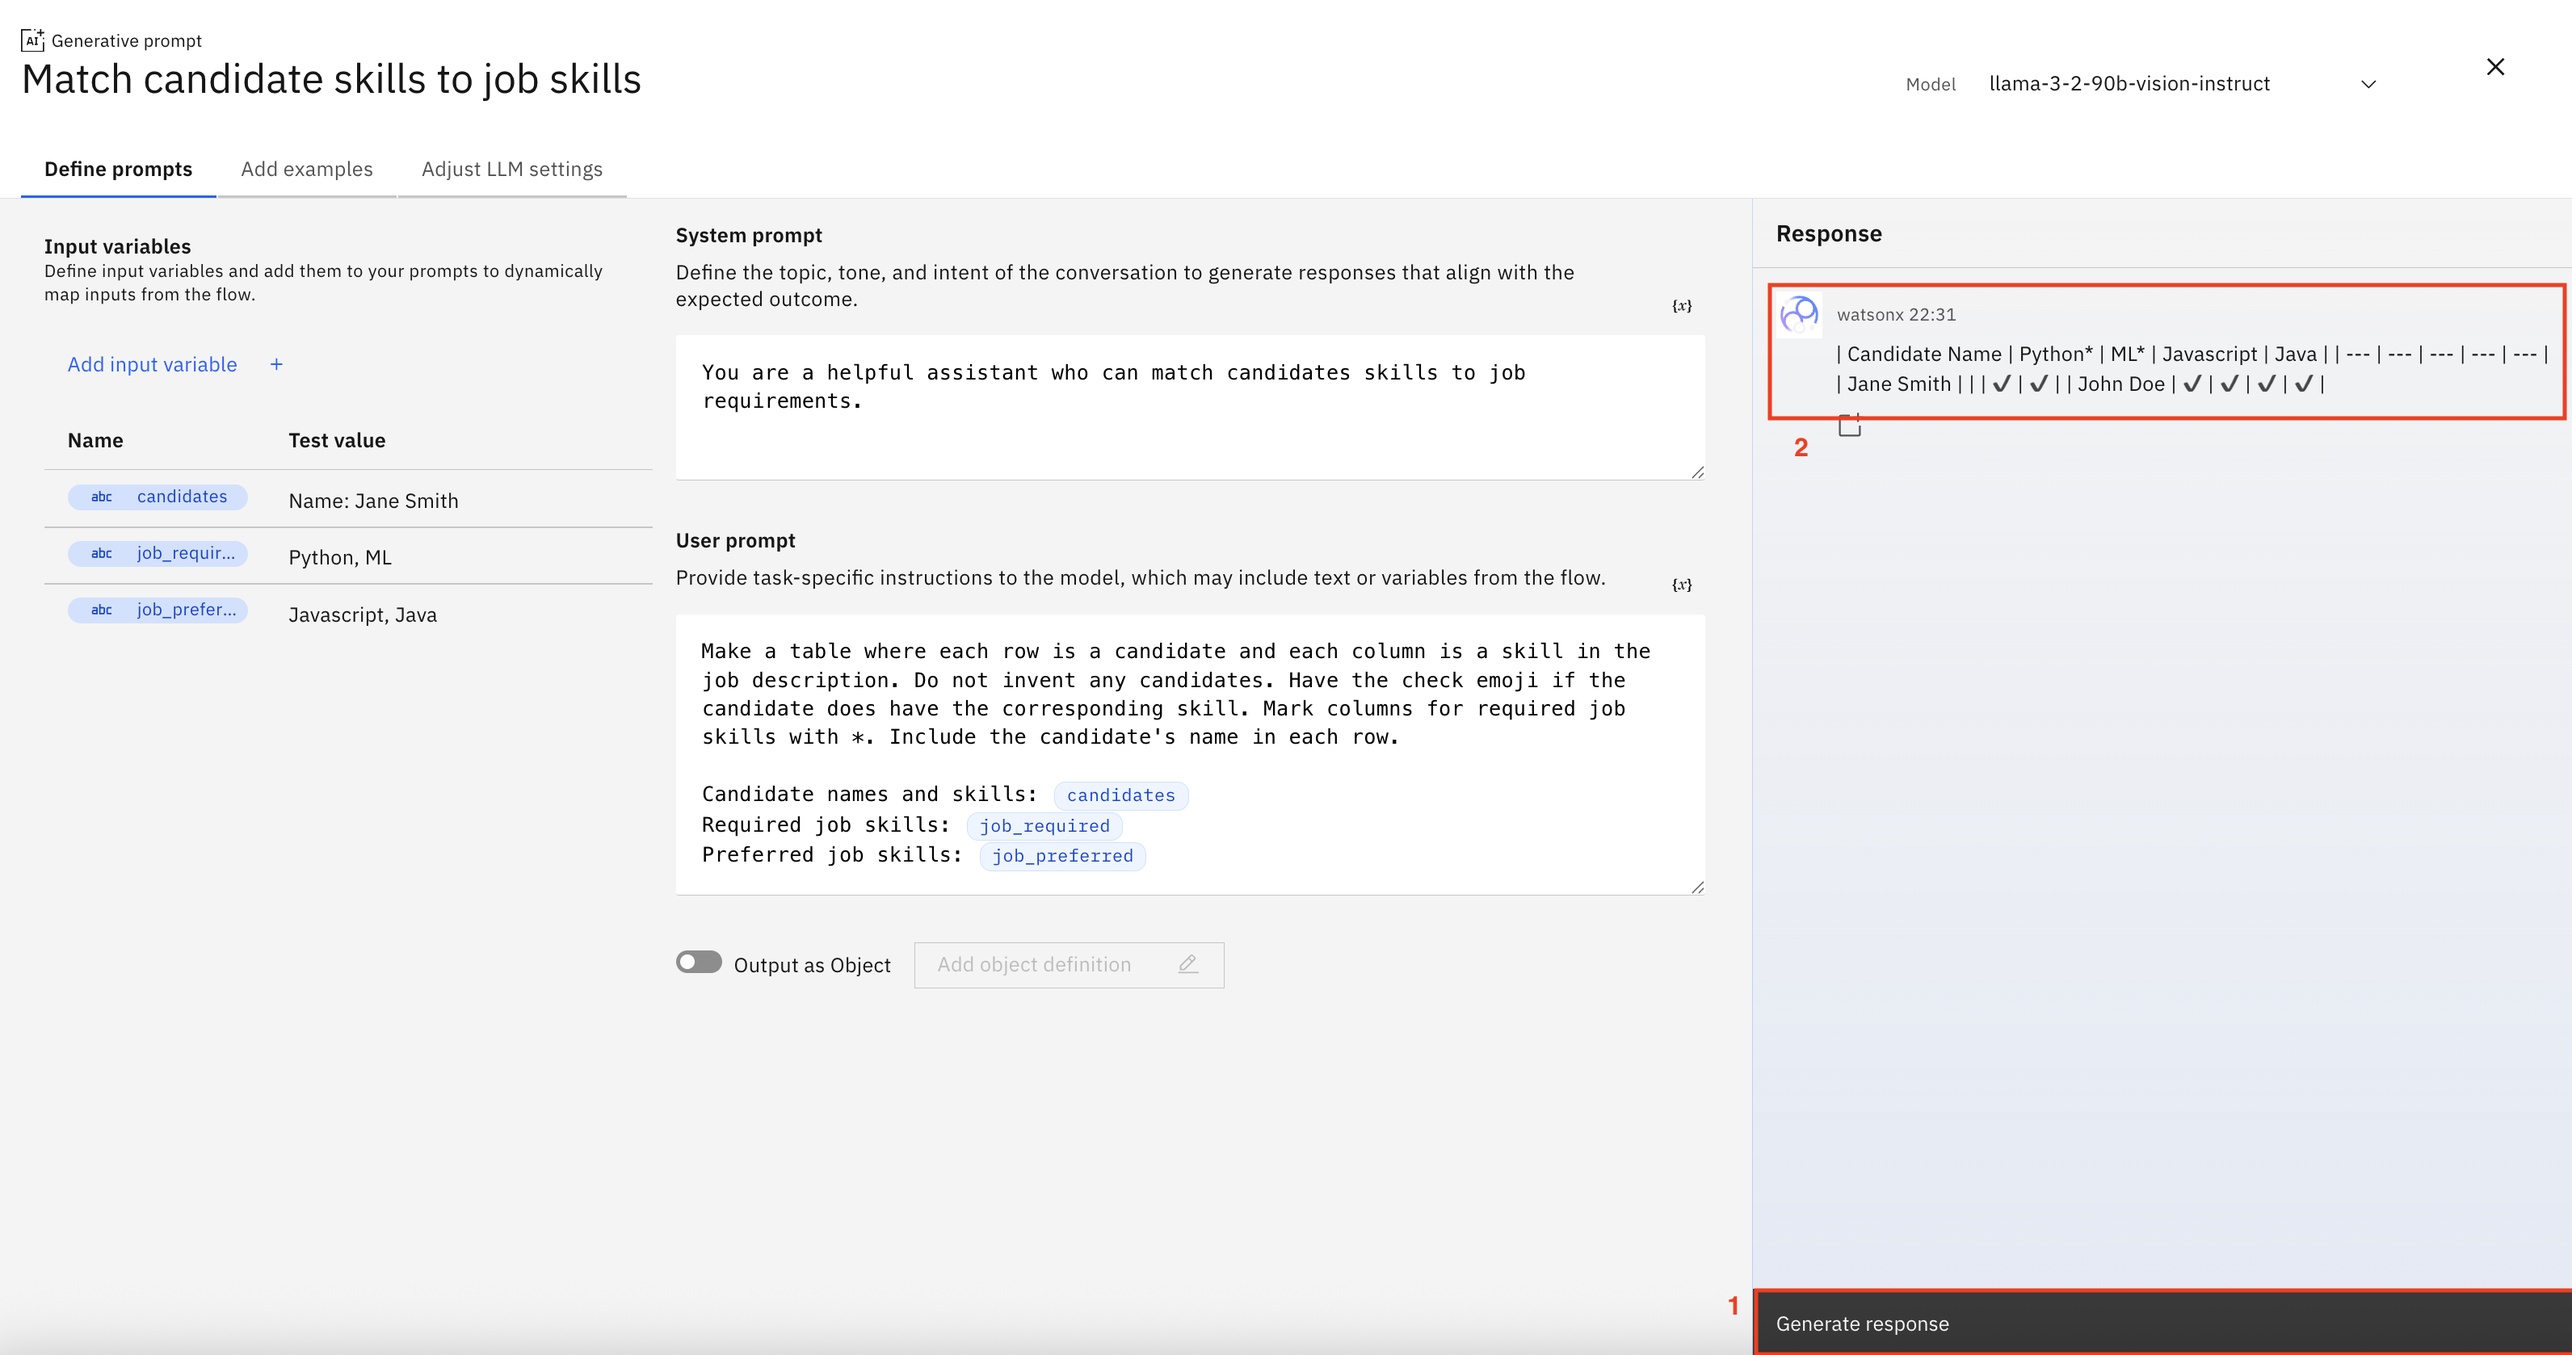
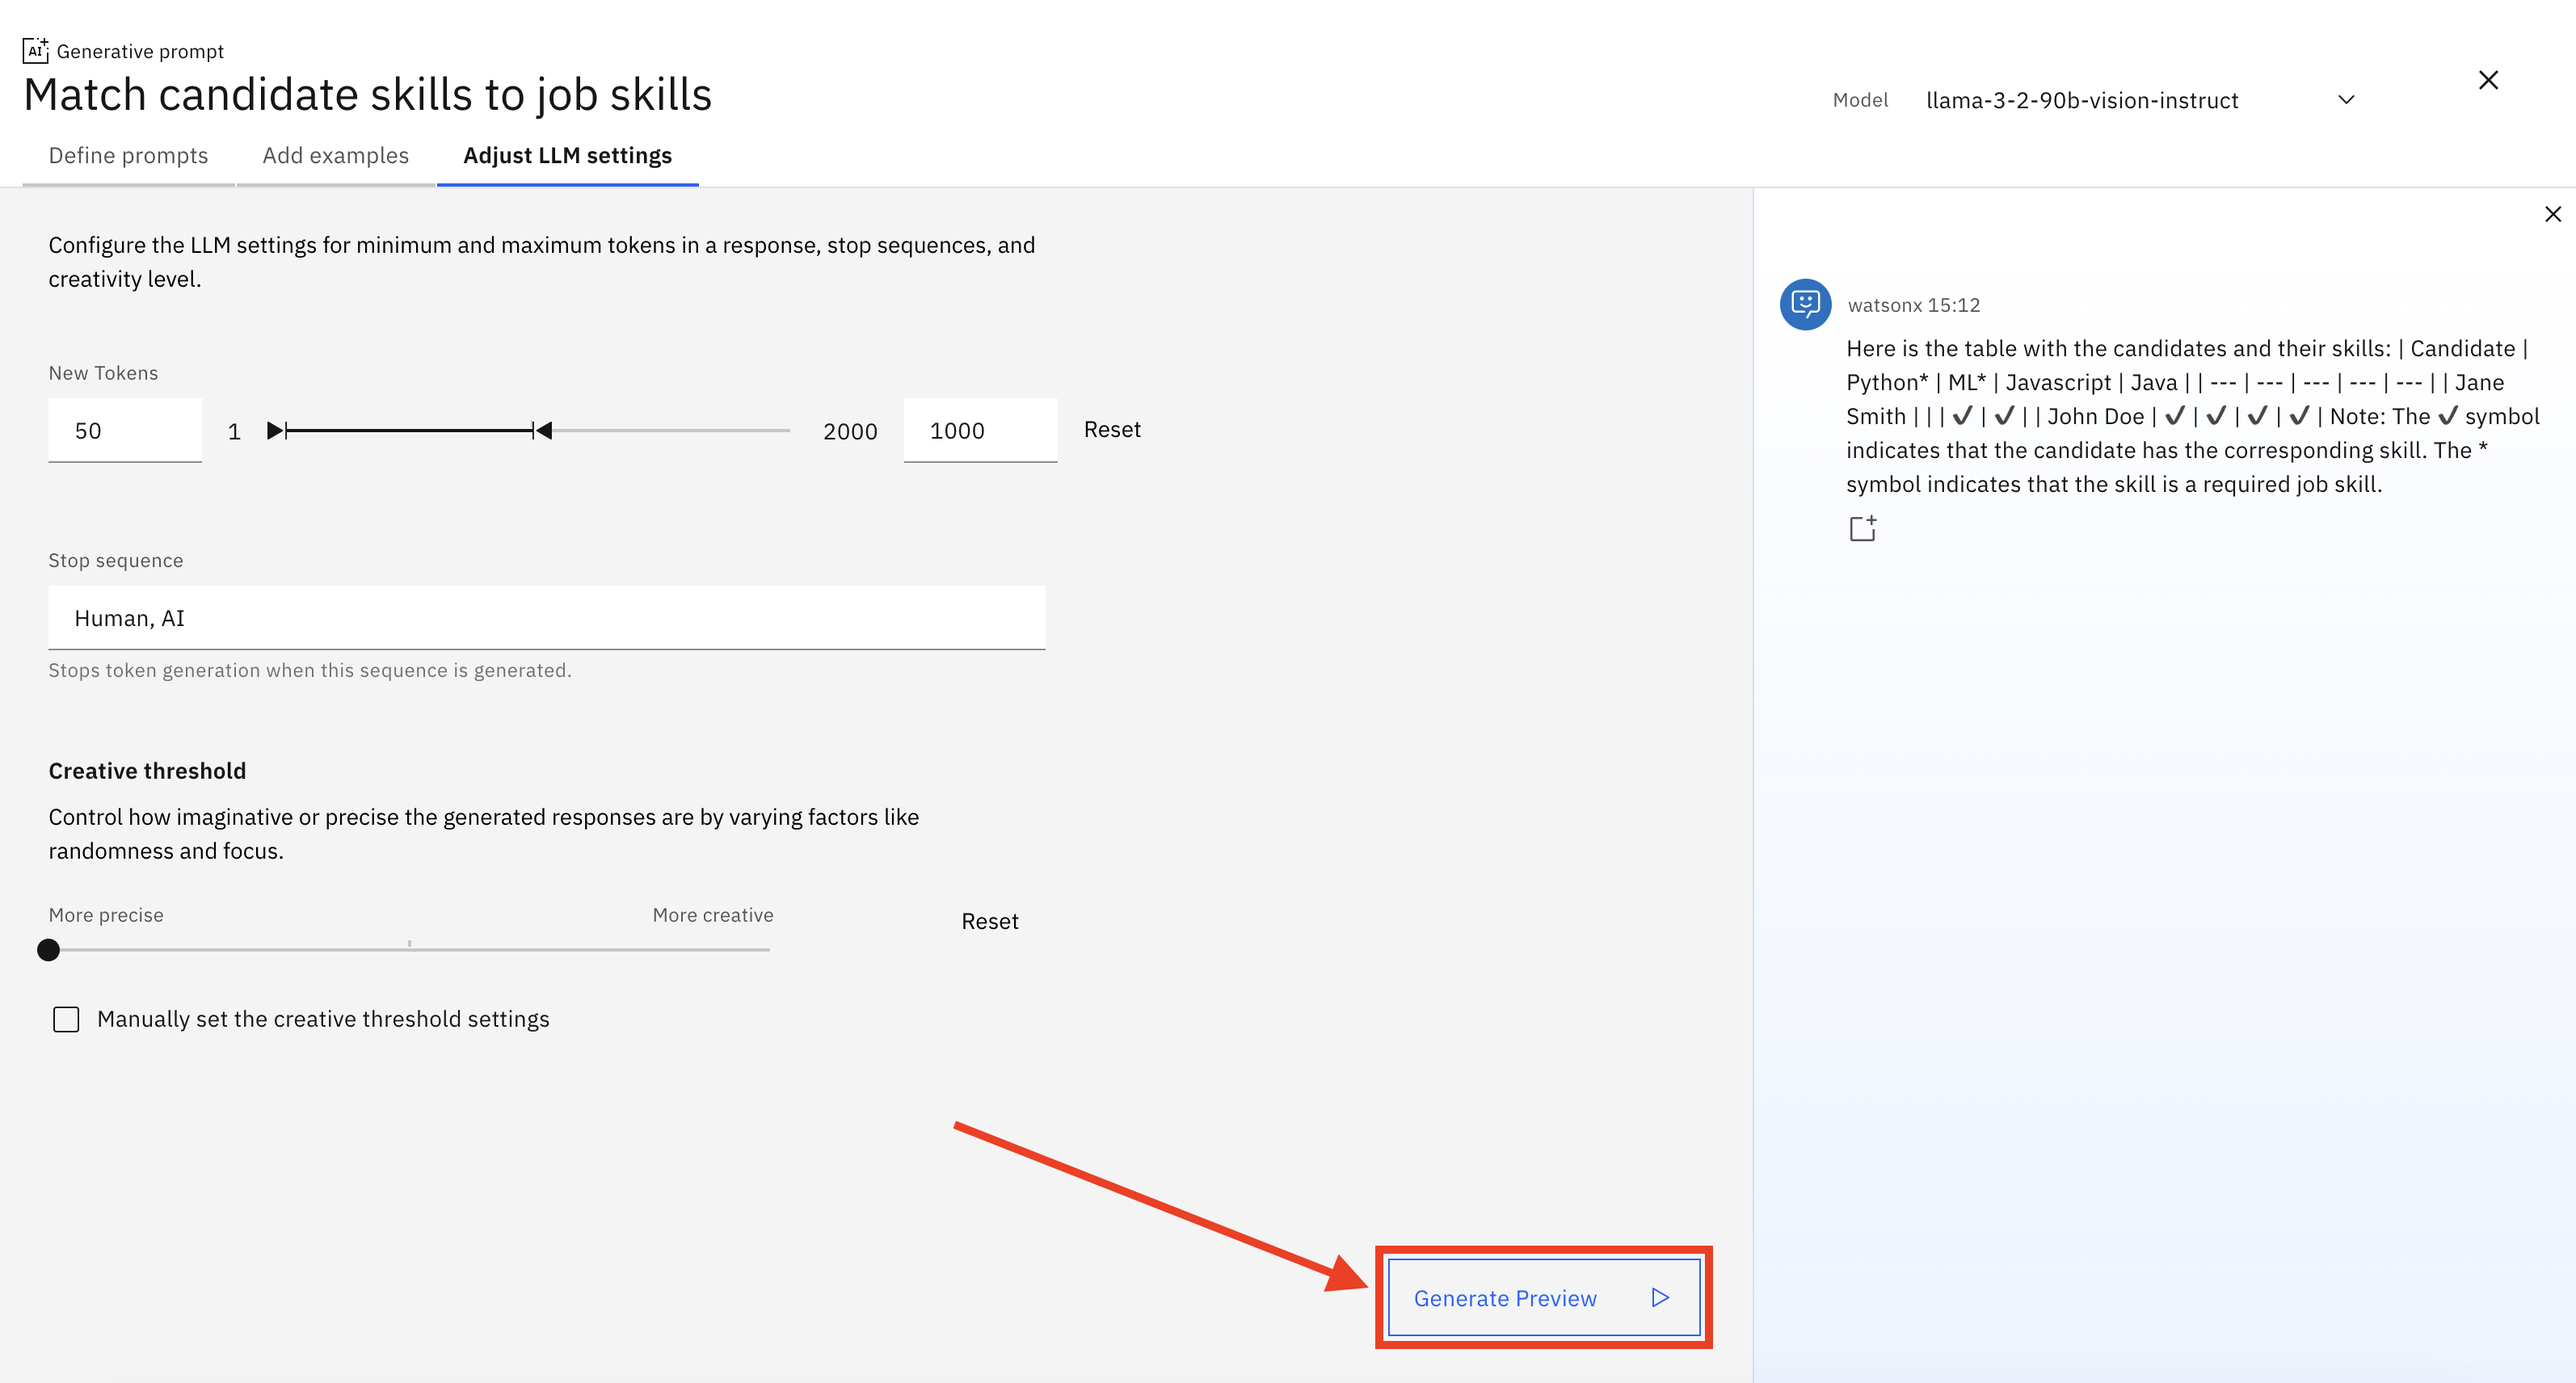
Adding instructions to adjust llm settings in flow lab

diff --git a/hr-talent/assets/hands-on-lab-hr-manager-flows.md b/hr-talent/assets/hands-on-lab-hr-manager-flows.md
@@ -464,7 +464,11 @@ Your prompt should now look like this:
 
 ![Complete generative prompt configuration with system prompt, user prompt, and variables](./hands-on-lab-assets/generative_prompt_finished.png)
 
-Click on **Generate response** to run the prompt on the test values you provided and observe the results returned:
+Navigate to the **Adjust LLM settings** tab, set the **max number of tokens** to **1000** and the **creative threshold** all the way to **more precise**.
+
+!["Adjust LLM settings" tab with max number of tokens set to 1000 and creative threshold set to more precise](./hands-on-lab-assets/adjust_llm_settings.png)
+
+Click on **Generate preview** to run the prompt on the test values you provided and observe the results returned:
 
 ![Generative prompt test results showing candidate skills comparison table](./hands-on-lab-assets/gen_prompt_test.png)
 
